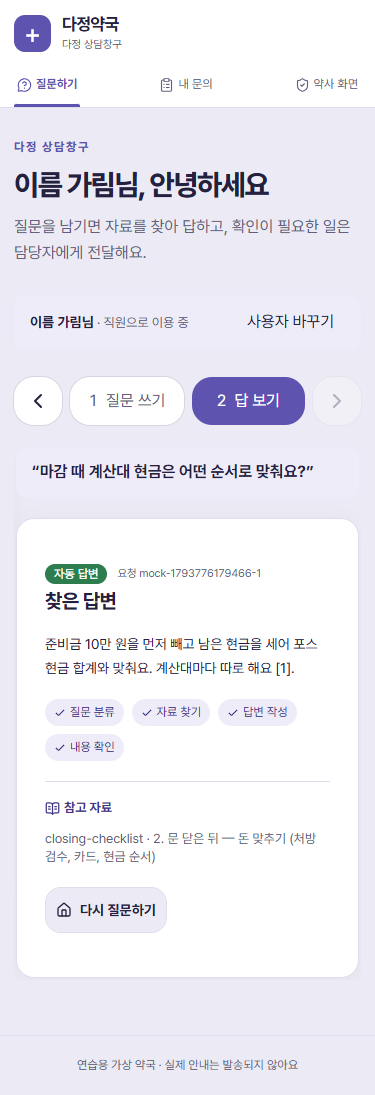
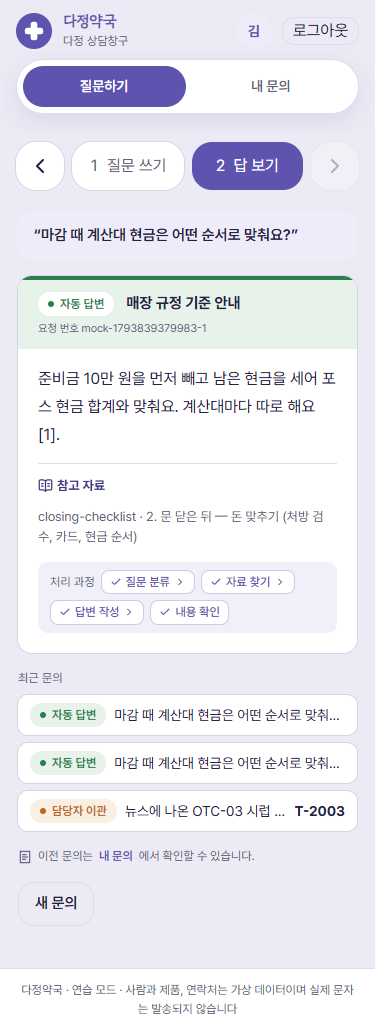
web: 태블릿 틀 크기 고정 · 안쪽 스크롤 · 로그인 문구 · 흐름 다듬기

diff --git a/web/components/senior-ask.tsx b/web/components/senior-ask.tsx
@@ -39,8 +39,13 @@ export function SeniorAsk({ who }: { who: Who }) {
   const urgent = answer?.ticket?.priority === "high";
   const [input, setInput] = useState("");
 
+  // 고른 글씨 크기는 이 탭에서 다시 들어와도 유지합니다.
+  useEffect(() => {
+    try { const saved = Number(sessionStorage.getItem("team3-senior-size")); if (saved) setSize(saved); } catch { /* 사생활 모드 */ }
+  }, []);
   useEffect(() => {
     document.documentElement.style.fontSize = `${size}px`;
+    try { sessionStorage.setItem("team3-senior-size", String(size)); } catch { /* 사생활 모드 */ }
     return () => { document.documentElement.style.fontSize = ""; };
   }, [size]);
 
@@ -59,7 +64,7 @@ export function SeniorAsk({ who }: { who: Who }) {
         <div className="senior-examples">{examples.map((example, index) => <button key={example} type="button" className="example-button" onClick={() => void ask.send(example)}><span>{index + 1}</span>{example}</button>)}</div>
         <form className="senior-form" onSubmit={e => { e.preventDefault(); void ask.send(input); }}>
           <label htmlFor="senior-q" className="sr-only">질문 내용</label>
-          <Textarea id="senior-q" rows={1} maxLength={500} value={input} onChange={e => setInput(e.target.value)} placeholder="궁금하신 내용을 적어 주세요" className="senior-input" />
+          <Textarea id="senior-q" rows={1} maxLength={500} value={input} onChange={e => setInput(e.target.value)} onKeyDown={e => { if (e.key === "Enter" && !e.shiftKey && !e.nativeEvent.isComposing) { e.preventDefault(); void ask.send(input); } }} placeholder="궁금하신 내용을 적어 주세요" className="senior-input" />
           <Button type="submit" className="senior-button senior-submit" disabled={!input.trim() || loading}>물어보기</Button>
         </form>
         <p className="senior-note">AI가 공공 의약품 정보로 안내해 드려요. 복용 판단은 약사가 직접 상담해 드릴게요.</p>
@@ -76,7 +81,7 @@ export function SeniorAsk({ who }: { who: Who }) {
           <p className="senior-answer">{answer.answer}</p>
           {answer.ticket && <div className="ticket-number senior-ticket"><p>담당자 접수 번호 <strong>{answer.ticket.ticket_id}</strong></p></div>}
           {!!answer.sources?.length && <p className="senior-source">출처: {answer.sources.map(source => source.doc).join(", ")}</p>}
-          {answer.route === "보완 질문" && <div className="senior-followup"><label className="field-label" htmlFor="context">조금 더 알려 주세요</label><Input id="context" value={ask.context} onChange={e => ask.setContext(e.target.value)} placeholder="약 이름이나 상황을 적어 주세요" className="senior-input" /><Button className="senior-button" disabled={!ask.context.trim() || loading} onClick={() => void ask.followUp()}>이어서 답하기 <ArrowRight /></Button></div>}
+          {answer.route === "보완 질문" && <div className="senior-followup"><label className="field-label" htmlFor="context">조금 더 알려 주세요</label><Input id="context" value={ask.context} onChange={e => ask.setContext(e.target.value)} onKeyDown={e => { if (e.key === "Enter" && !e.nativeEvent.isComposing && ask.context.trim()) void ask.followUp(); }} placeholder="약 이름이나 상황을 적어 주세요" className="senior-input" /><Button className="senior-button" disabled={!ask.context.trim() || loading} onClick={() => void ask.followUp()}>이어서 답하기 <ArrowRight /></Button></div>}
           <div className="senior-actions"><ListenButton text={answer.answer} /><Button variant="outline" className="senior-button" onClick={again}><Home /> 다시 질문하기</Button></div>
         </motion.section>}
         {!answer && !loading && <Button variant="outline" className="senior-button mt-4" onClick={again}><Home /> 다시 질문하기</Button>}

diff --git a/web/tests/mock-screen-smoke.js b/web/tests/mock-screen-smoke.js
@@ -21,7 +21,7 @@ async (page) => {
     await page.getByRole("button", { name: new RegExp(`^.*${roles[name]}`) }).first().click();
     await page.locator(".person-card", { hasText: name }).click();
     await page.getByRole("textbox", { name: "입장 코드" }).fill(code);
-    await page.getByRole("button", { name: `${name} 님으로 들어가기` }).click();
+    await page.getByRole("button", { name: `${name} 님으로 로그인` }).click();
     await page.getByRole("button", { name: /로그아웃|나가기/ }).waitFor({ state: "visible" });
     verify(true, `${name}: 입장`);
   };
@@ -33,7 +33,7 @@ async (page) => {
   await page.getByRole("heading", { name: "사용자 선택" }).waitFor({ state: "visible" });
   await width("로그인 화면");
   await page.getByRole("button", { name: /직원/ }).click();
-  await page.getByRole("button", { name: /님으로 들어가기/ }).click();
+  await page.getByRole("button", { name: /님으로 로그인/ }).click();
   verify(await page.getByRole("alert").getByText("입장 코드를 넣어 주세요.").isVisible(), "입장 코드 없이 못 들어감");
 
   await login("김하늘");
@@ -56,7 +56,7 @@ async (page) => {
   await login("이서준");
   await page.goto(origin + "/admin/");
   await page.getByRole("button", { name: "접수 목록 보기" }).click();
-  await page.getByRole("button", { name: "OTC-03 회수 제품 진열 중" }).click();
+  await page.locator(".ticket-link", { hasText: "OTC-03 회수 제품 진열 중" }).click();
   await page.getByRole("button", { name: "손님 안내 보내기 (연습)" }).waitFor({ state: "visible" });
   await page.getByRole("button", { name: "처리 중", exact: true }).click();
   await page.getByRole("button", { name: "상태 저장" }).click();
@@ -73,7 +73,7 @@ async (page) => {
   await login("정민재");
   await page.goto(origin + "/admin/");
   await page.getByRole("button", { name: "접수 목록 보기" }).click();
-  await page.getByRole("button", { name: "OTC-03 회수 제품 진열 중" }).click();
+  await page.locator(".ticket-link", { hasText: "OTC-03 회수 제품 진열 중" }).click();
   await page.getByText("손님 안내는 약사 계정에서만").waitFor({ state: "visible" });
   verify(await page.getByRole("button", { name: "손님 안내 보내기 (연습)" }).count() === 0, "약국장 회수 안내 제한");
 
@@ -115,7 +115,7 @@ async (page) => {
   verify(true, "보완 질문 티켓이 약사 목록에 표시");
   await page.getByRole("tab", { name: /처리 중/ }).click();
   await page.getByRole("cell", { name: ticketId }).waitFor({ state: "hidden" });
-  verify(await page.getByRole("button", { name: "OTC-03 회수 제품 진열 중" }).isVisible(), "상태 탭 거르기");
+  verify(await page.locator(".ticket-link", { hasText: "OTC-03 회수 제품 진열 중" }).isVisible(), "상태 탭 거르기");
   await width("티켓 필터 화면");
 
   return checks;

diff --git a/web/app/page.tsx b/web/app/page.tsx
@@ -80,13 +80,13 @@ function StaffAsk({ who }: { who: Who }) {
       {loading && <div className="loading-card" aria-live="polite"><p>답을 찾고 있어요</p><Skeleton className="h-5 w-1/3" /><Skeleton className="h-4 w-full" /><Skeleton className="h-4 w-5/6" /><Skeleton className="h-4 w-2/3" /></div>}
       {!answer && !loading && !error && <div className="soft-card empty-state"><MessageCircle size={35} /><strong>아직 보낸 질문이 없어요</strong><p>질문을 보내면 여기에 답이 나와요.</p></div>}
       {answer && <ResultCard answer={answer}>
-        {answer.route === "보완 질문" && <div className="followup"><label className="field-label" htmlFor="context">조금 더 알려 주세요</label><Input id="context" className="field-control" value={ask.context} onChange={e => ask.setContext(e.target.value)} placeholder="상황이나 약 이름 등을 이어서 적어 주세요" /><Button className="primary-action mt-3" disabled={!ask.context.trim() || loading} onClick={() => void ask.followUp()}>이어서 답하기 <ArrowRight size={16} /></Button></div>}
+        {answer.route === "보완 질문" && <div className="followup"><label className="field-label" htmlFor="context">조금 더 알려 주세요</label><Input id="context" className="field-control" value={ask.context} onChange={e => ask.setContext(e.target.value)} onKeyDown={e => { if (e.key === "Enter" && !e.nativeEvent.isComposing && ask.context.trim()) void ask.followUp(); }} placeholder="상황이나 약 이름 등을 이어서 적어 주세요" /><Button className="primary-action mt-3" disabled={!ask.context.trim() || loading} onClick={() => void ask.followUp()}>이어서 답하기 <ArrowRight size={16} /></Button></div>}
         {answer.route === "담당자 이관" && <CallButton who="pharmacist" variant="outline" className="primary-action self-start">약사에게 전화</CallButton>}
       </ResultCard>}
       {ask.recent.length === 0 ? <div className="recent-empty"><History size={20} /> 최근 문의가 없습니다.</div> :
         <div className="recent-list"><span>최근 문의</span>{ask.recent.map(item => <div key={item.request_id} className="recent-row"><RouteBadge route={item.route} /><span className="recent-q">{item.question}</span>{item.ticket && <b>{item.ticket.ticket_id}</b>}</div>)}</div>}
       <p className="recent-link"><ReceiptText size={14} /> 이전 문의는 <Link href="/my/">내 문의</Link>에서 확인할 수 있습니다.</p>
-      <Button variant="outline" className="primary-action justify-self-start" onClick={ask.askAgain}>새 문의</Button>
+      {(answer || error) && <Button variant="outline" className="primary-action justify-self-start" onClick={ask.askAgain}>새 문의</Button>}
     </div>
   </Pager>;
 }

diff --git a/web/components/login.tsx b/web/components/login.tsx
@@ -82,16 +82,16 @@ export function LoginPanel() {
           </button>)}
         </div>
       </motion.div> : <motion.form key={role} className="login-form" onSubmit={submit} initial={{ opacity: 0, y: 8 }} animate={{ opacity: 1, y: 0 }} transition={{ duration: 0.25 }}>
-        <button type="button" className="back-link" onClick={() => pickRole(null)}><ArrowLeft size={16} /> 다른 역할 고르기</button>
+        <button type="button" className="back-link" onClick={() => pickRole(null)}><ArrowLeft size={16} /> 사용자 선택으로</button>
         <h2 className="login-title">{role === "patient" ? "어서 오세요" : `${ROLES.find(item => item.role === role)?.title} 로그인`}</h2>
-        <div className="person-grid" role="group" aria-label="사용자">
+        <div className={people.length === 1 ? "person-grid single" : "person-grid"} role="group" aria-label="사용자">
           {people.map(user => <button key={user.name} type="button" aria-pressed={name === user.name} className={name === user.name ? "person-card on" : "person-card"} onClick={() => setName(user.name)}>
             <PersonAvatar name={user.name} className="size-9 text-sm" /><b>{user.name}</b>
           </button>)}
         </div>
-        <div><label className="field-label" htmlFor="code">입장 코드</label><Input id="code" type="password" autoComplete="off" className="field-control" value={code} onChange={e => setCode(e.target.value)} placeholder="입장 코드를 입력해 주세요" /></div>
+        <div><label className="field-label" htmlFor="code">입장 코드</label><Input id="code" type="password" autoComplete="off" autoFocus className="field-control" value={code} onChange={e => setCode(e.target.value)} placeholder="입장 코드를 입력해 주세요" /></div>
         {error && <p className="error-box" role="alert">{error}</p>}
-        <Button type="submit" className="primary-action w-full" disabled={busy}>{busy ? "확인하고 있어요" : `${name} 님으로 들어가기`}</Button>
+        <Button type="submit" className="primary-action w-full" disabled={busy}>{busy ? "확인하고 있어요" : `${name} 님으로 로그인`}</Button>
       </motion.form>}
     </div>
   </div>;

diff --git a/web/app/globals.css b/web/app/globals.css
@@ -427,3 +427,18 @@ h1, h2, h3, .brand strong, .senior-title { font-family: var(--font-gowun), var(-
 }
 .senior .who-box button { height: auto; min-height: 48px; padding: 0 14px; font-size: 18px; font-weight: 700; }
 .brand strong { font-weight: 700; }
+/* 해든: 태블릿 틀은 모든 화면에서 같은 크기로 두고, 내용은 틀 안에서 아래로 스크롤합니다. */
+.tablet-clip { display: contents; }
+.person-grid.single { grid-template-columns: minmax(0, 1fr); }
+.person-grid.single .person-card { flex-direction: row; justify-content: flex-start; gap: 12px; padding: 10px 12px; }
+.alert-pill { text-align: left; cursor: pointer; transition: background-color .2s; }
+.alert-pill:hover { background: var(--route-blocked-bg); }
+@media (min-width: 760px) and (min-height: 520px) and (hover: hover) and (pointer: fine) {
+  body { background: var(--stage); overflow: hidden; }
+  .tablet-stage { display: grid; grid-template-columns: minmax(0, 1fr); min-height: 100dvh; place-items: center; padding: 24px; background: radial-gradient(1200px 600px at 50% 0%, color-mix(in oklch, var(--primary) 10%, transparent), transparent 70%), var(--stage); }
+  .tablet-device { display: flex; flex-direction: column; width: min(1180px, 100%); min-width: 0; height: min(calc(100dvh - 48px), 860px); padding: 14px; border-radius: 42px; background: #1d2220; box-shadow: 0 0 0 2px #3a403d inset, 0 30px 80px -20px rgba(0, 0, 0, .45); }
+  .tablet-status { display: flex; flex: none; height: 30px; align-items: center; justify-content: space-between; gap: 12px; padding: 0 22px; border-radius: 28px 28px 0 0; background: var(--background); color: var(--muted-foreground); font-size: 12px; font-weight: 600; }
+  .tablet-clip { display: block; position: relative; flex: 1; min-height: 0; min-width: 0; overflow: hidden; border-radius: 0 0 28px 28px; transform: translateZ(0); }
+  .tablet-screen { display: block; height: 100%; min-width: 0; overflow-x: hidden; overflow-y: auto; overscroll-behavior: contain; border-radius: 0; background: var(--background); scrollbar-width: none; }
+  .tablet-screen .site-shell { min-height: 100%; }
+}

diff --git a/web/app/admin/page.tsx b/web/app/admin/page.tsx
@@ -134,7 +134,7 @@ export default function AdminPage() {
           <div className="recall-count"><small>확인할 티켓</small><b>{tickets.filter(t => t.status !== "처리 완료").length}</b></div>
           {lead.ticket_id && <Button className="primary-action danger-action" onClick={() => open(lead.ticket_id)}>접수 상세 보기</Button>}
         </motion.div> : <div className="soft-card panel-pad text-sm text-muted-foreground">새 알림이 없어요.</div>}
-        {urgentAlerts.length > 0 && <div className="alert-pills">{urgentAlerts.map((alert, index) => <div key={`${alert.ticket_id ?? "alert"}-${index}`} className="alert-pill"><span className="urgent-pill">긴급</span><span>{alert.reason === "urgent" ? "긴급 확인이 필요해요" : alert.reason}<em> · {alert.ticket_id ?? ""}</em></span></div>)}</div>}
+        {urgentAlerts.length > 0 && <div className="alert-pills">{urgentAlerts.map((alert, index) => <button key={`${alert.ticket_id ?? "alert"}-${index}`} type="button" className="alert-pill" onClick={() => open(alert.ticket_id)}><span className="urgent-pill">긴급</span><span>{tickets.find(item => item.ticket_id === alert.ticket_id)?.title ?? alert.message}<em> · {alert.ticket_id ?? ""}</em></span></button>)}</div>}
         <Button variant="outline" className="primary-action mt-4" onClick={() => setPage(1)}>접수 목록 보기</Button>
       </div>
       <div className="table-card">

diff --git a/web/components/app-shell.tsx b/web/components/app-shell.tsx
@@ -3,6 +3,7 @@
 // 해든: 3004 다정약국의 머리 메뉴(알약 메뉴 · 사용자 · 로그아웃)와 이동 효과를 구성했습니다.
 import Link from "next/link";
 import { usePathname, useRouter } from "next/navigation";
+import { useEffect } from "react";
 import { motion, MotionConfig } from "motion/react";
 import { Cross } from "lucide-react";
 import { Toaster } from "sonner";
@@ -26,6 +27,12 @@ export function AppShell({ children }: { children: React.ReactNode }) {
   const senior = who?.role === "patient";
   const nav = links.filter(link => link.href !== "/admin/" || isAdmin(who));
   const logout = () => { saveWho(null); router.push("/"); };
+
+  // 메뉴를 옮기면 새 화면의 맨 위부터 보여 줍니다.
+  useEffect(() => {
+    document.querySelector(".tablet-screen")?.scrollTo(0, 0);
+    window.scrollTo(0, 0);
+  }, [pathname]);
 
   return (
     <MotionConfig reducedMotion="user" transition={{ duration: 0.24 }}>

diff --git a/web/components/tablet-frame.tsx b/web/components/tablet-frame.tsx
@@ -26,7 +26,7 @@ export function TabletFrame({ children }: { children: React.ReactNode }) {
             <BatteryFull className="size-4" />
           </span>
         </div>
-        <div className="tablet-screen">{children}</div>
+        <div className="tablet-clip"><div className="tablet-screen">{children}</div></div>
       </div>
     </div>
   );
